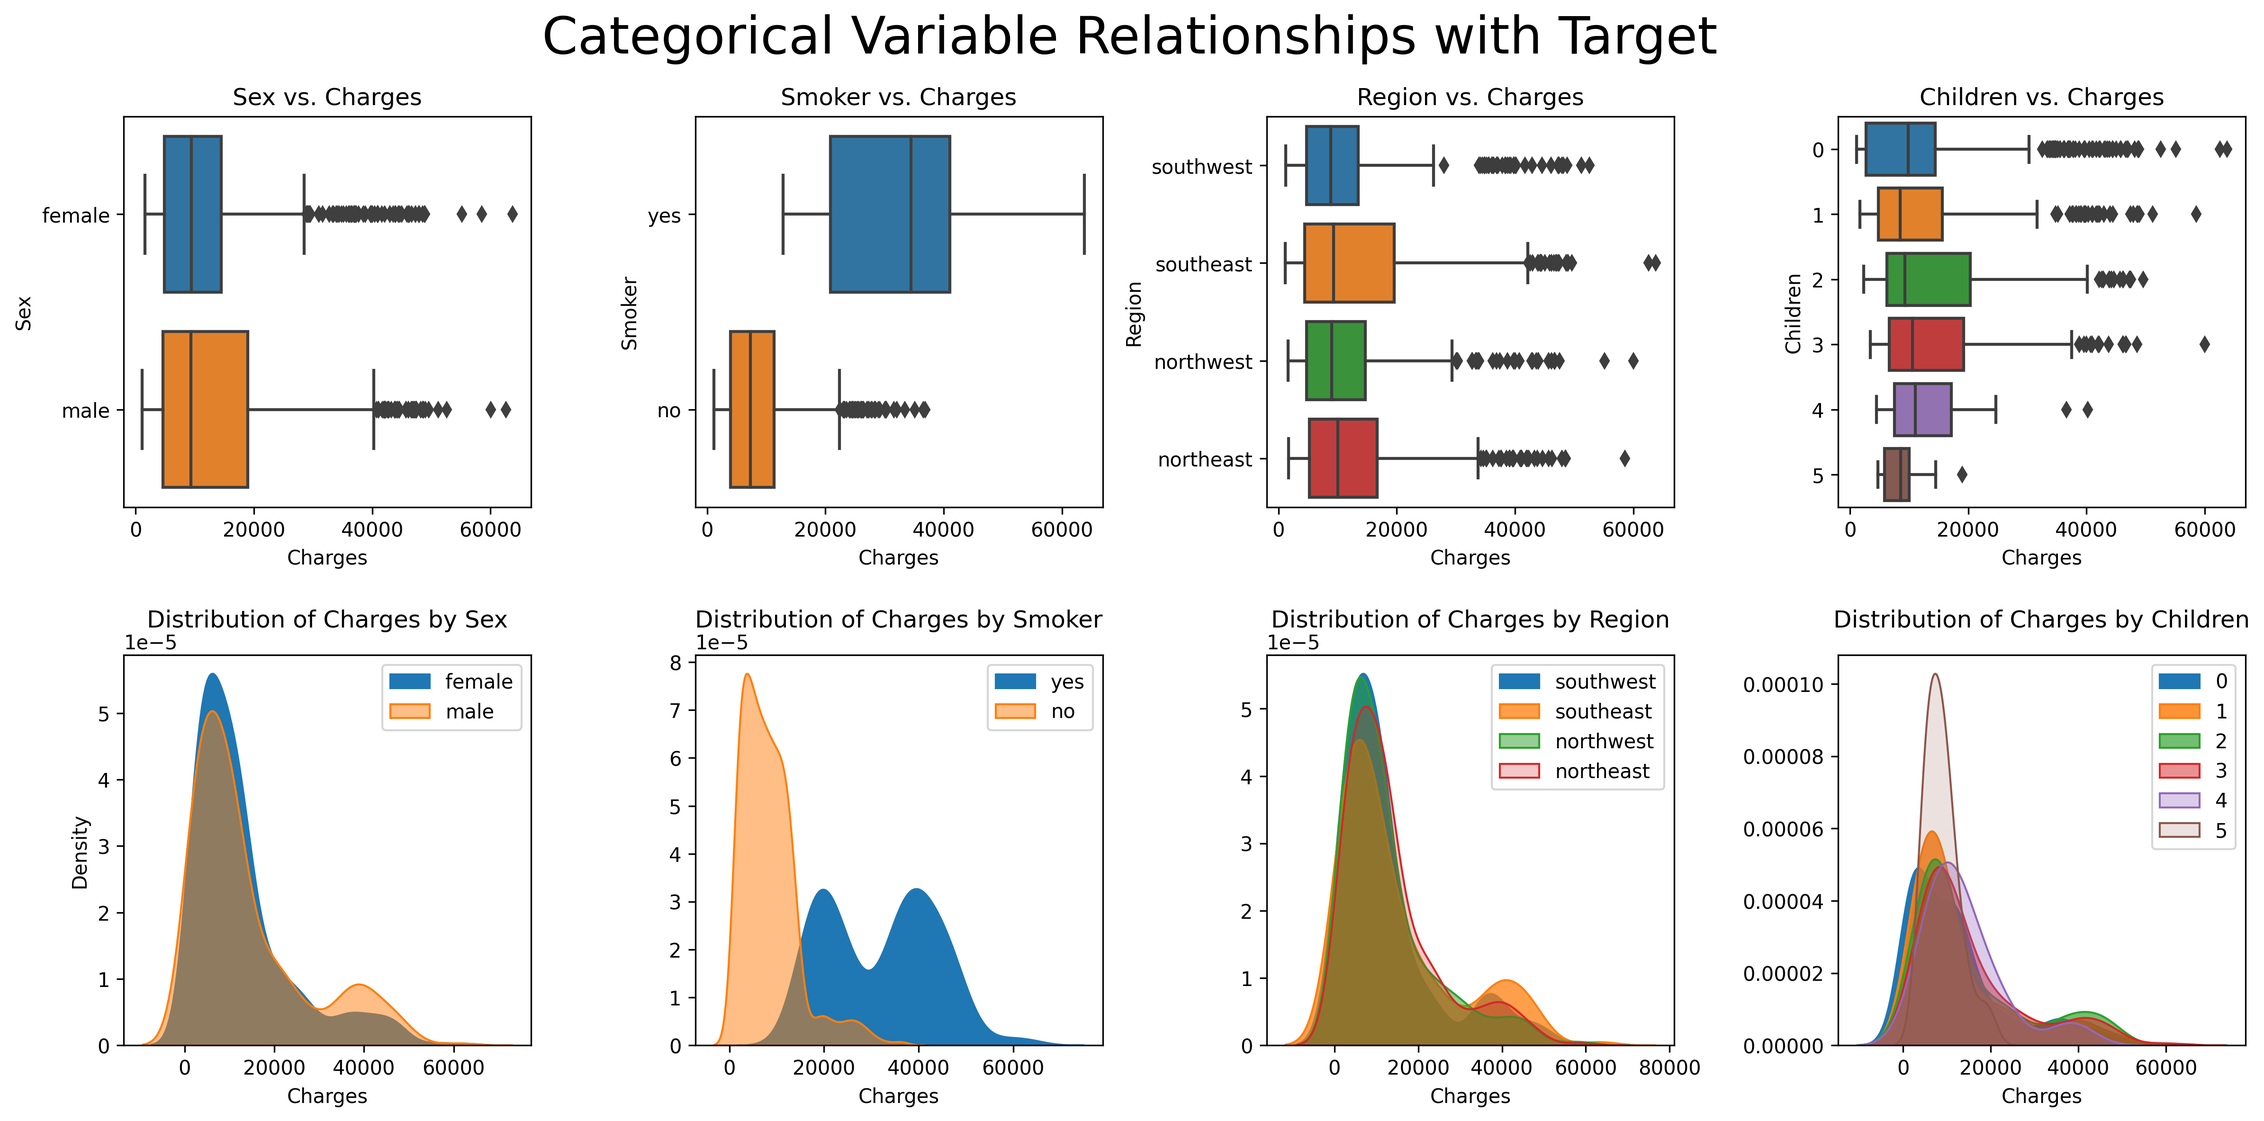
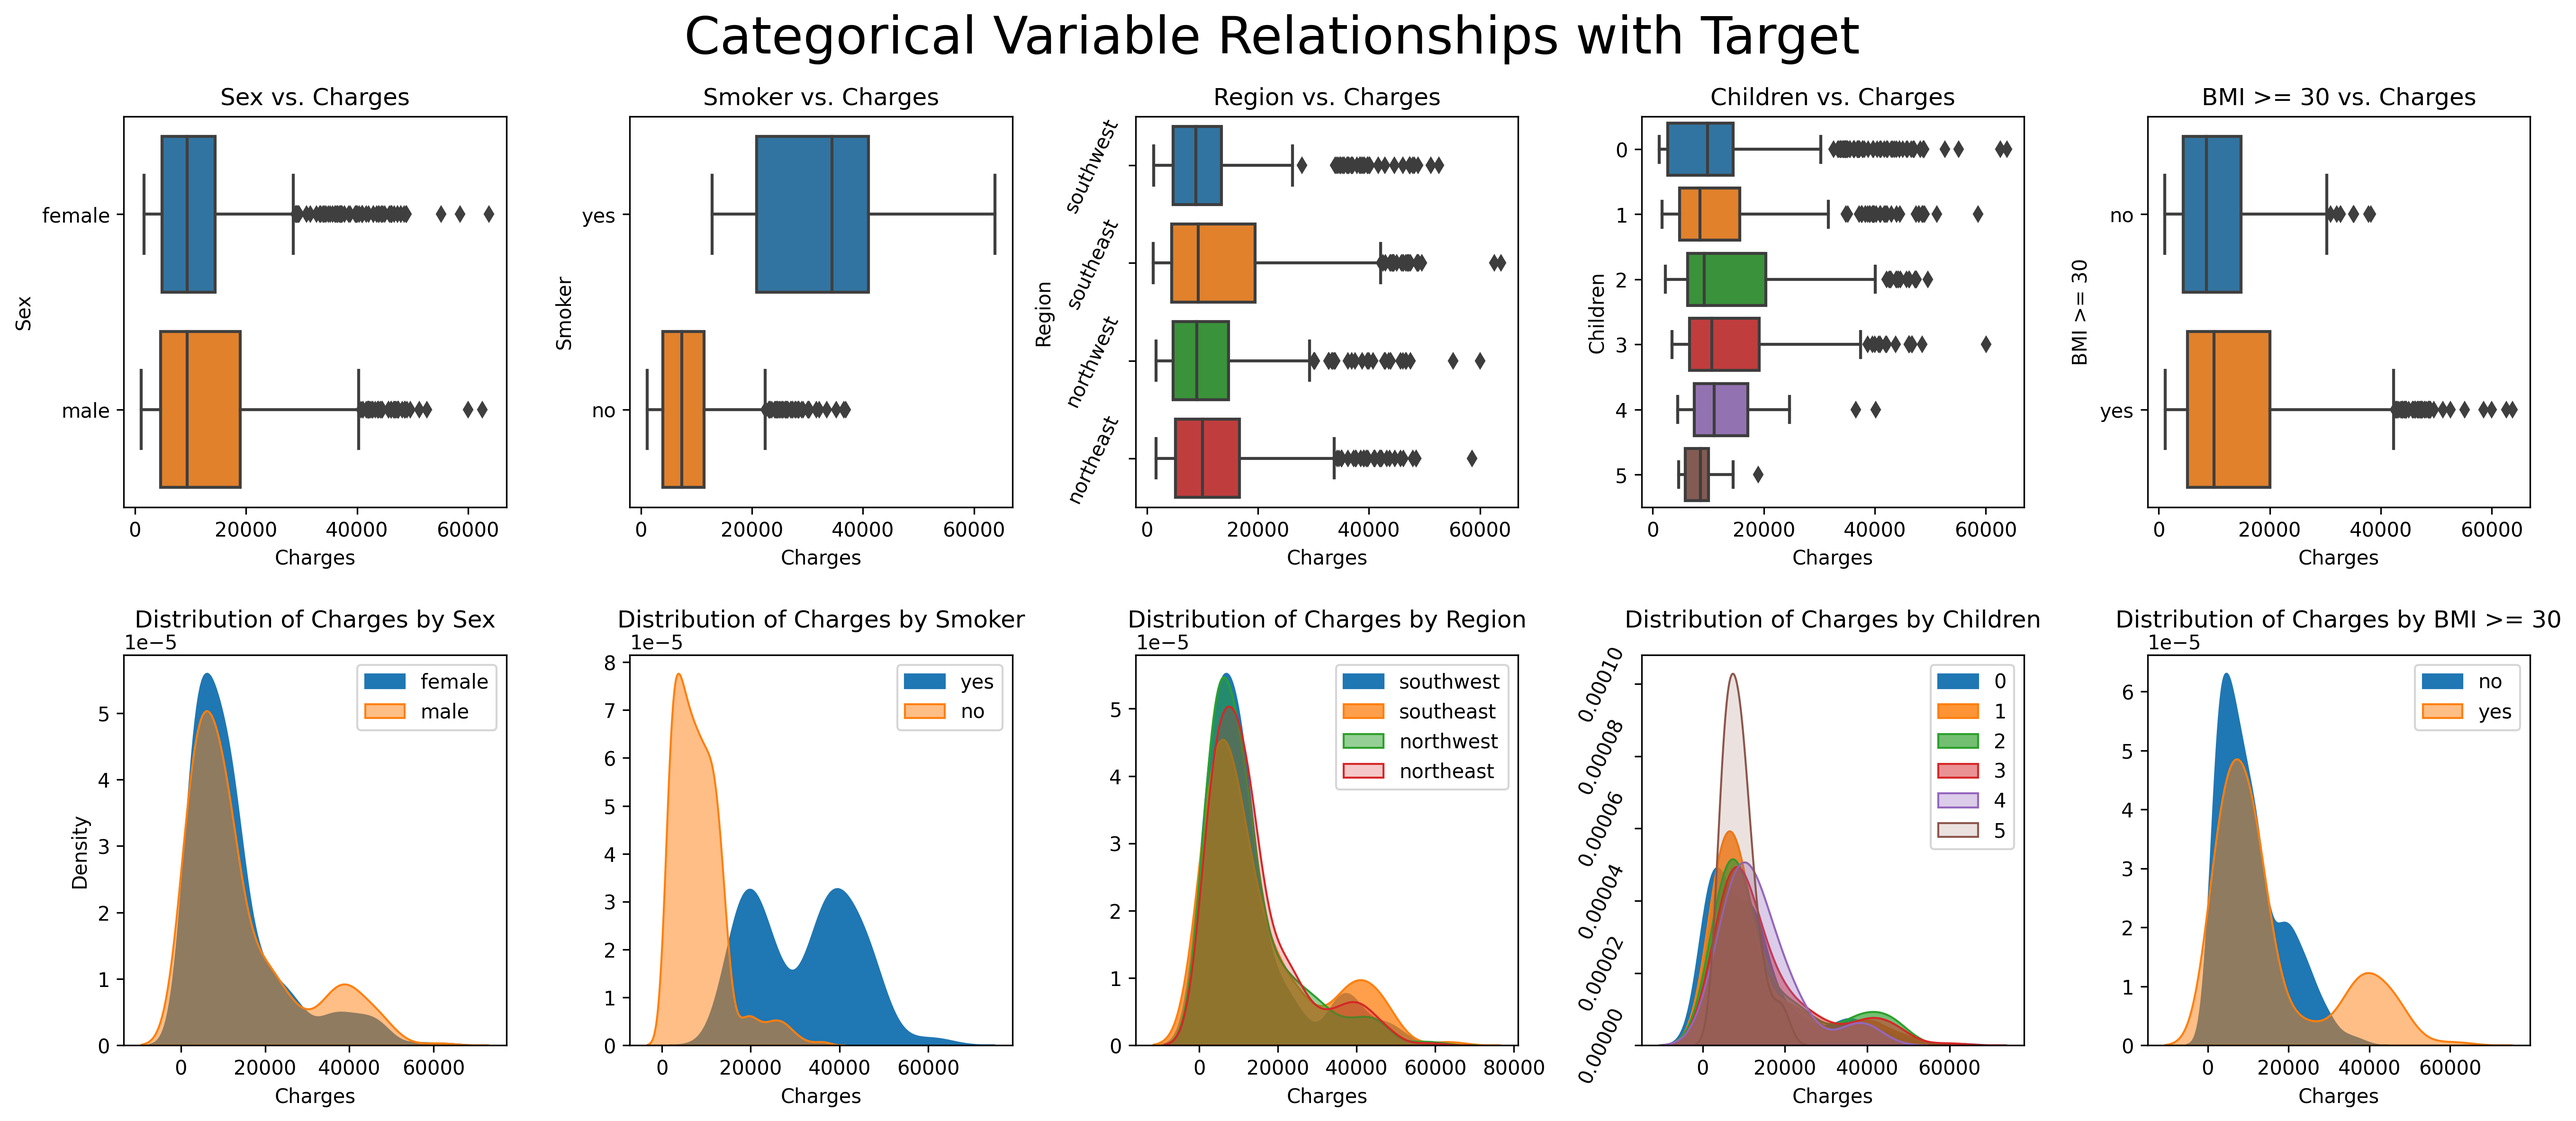
plots

diff --git a/cost_eda.py b/cost_eda.py
@@ -166,7 +166,7 @@ for col in cat_ord_cols:
 # Combine into one figure
 # =============================
 # Create figure, gridspec, list of axes/subplots mapped to gridspec location
-fig, gs, ax_array_flat = initialize_fig_gs_ax(num_rows=1, num_cols=4, figsize=(10, 4))
+fig, gs, ax_array_flat = initialize_fig_gs_ax(num_rows=1, num_cols=5, figsize=(12, 4))
 
 # Loop through categorical variables, plotting each in the figure
 i = 0
@@ -183,13 +183,15 @@ for col in cat_ord_cols:
     # Only want to label the y-axis on the first subplot of each row
     if i != 0:
         axis.set_ylabel('')
+    else:
+        axis.set_ylabel('Count')
     i += 1
 
 # Finalize figure formatting and export
-fig.suptitle('Categorical Variable Counts', fontsize=16)
+fig.suptitle('Categorical Variable Counts', fontsize=18)
 fig.tight_layout(h_pad=2) # Increase spacing between plots to minimize text overlap
-#save_filename = 'combined_cat_counts'
-#save_image(output_dir, save_filename, bbox_inches='tight')
+save_filename = 'combined_cat_counts'
+save_image(output_dir, save_filename, bbox_inches='tight')
 plt.show()
 
 
@@ -218,7 +220,7 @@ for col in cat_ord_cols:
 # Combine categorical variable relationships with target into one figure
 # =============================
 # Create figure, gridspec, list of axes/subplots mapped to gridspec location
-fig, gs, ax_array_flat = initialize_fig_gs_ax(num_rows=2, num_cols=4, figsize=(16, 8))
+fig, gs, ax_array_flat = initialize_fig_gs_ax(num_rows=2, num_cols=5, figsize=(18, 8))
 
 # Loop through categorical variables, plotting each in the figure
 i = 0
@@ -230,8 +232,12 @@ for col in cat_ord_cols:
     axis1.set_ylabel(format_col(col))
     axis1.set_xlabel('Charges')
     
+    # Change y-label axis tick rotation to save space
+    if col == 'region':
+        plt.setp(axis1.get_yticklabels(), rotation=65, verticalalignment='center')
+    
     # Distributions
-    axis2 = ax_array_flat[i+4]
+    axis2 = ax_array_flat[i+len(cat_ord_cols)]
     alpha_increment = 1 / len(dataset[col].unique())
     alpha = 1
     
@@ -245,6 +251,10 @@ for col in cat_ord_cols:
     axis2.set_title('Distribution of Charges by ' + format_col(col), y=1.04)
     axis2.set_xlabel('Charges')
     axis2.legend() 
+    
+    # Change y-label axis tick rotation to save space
+    if col == 'children':
+        plt.setp(axis2.get_yticklabels(), rotation=65, verticalalignment='center')
             
     # Only want to label the y-axis on the first subplot of each row
     if i != 0:
@@ -255,8 +265,8 @@ for col in cat_ord_cols:
 # Finalize figure formatting and export
 fig.suptitle('Categorical Variable Relationships with Target', fontsize=26)
 fig.tight_layout(h_pad=2) # Increase spacing between plots to minimize text overlap
-save_filename = 'cat_variables_vs_target'
-save_image(output_dir, save_filename, bbox_inches='tight')
+#save_filename = 'cat_variables_vs_target'
+#save_image(output_dir, save_filename, bbox_inches='tight')
 plt.show()
 
 # =============================
